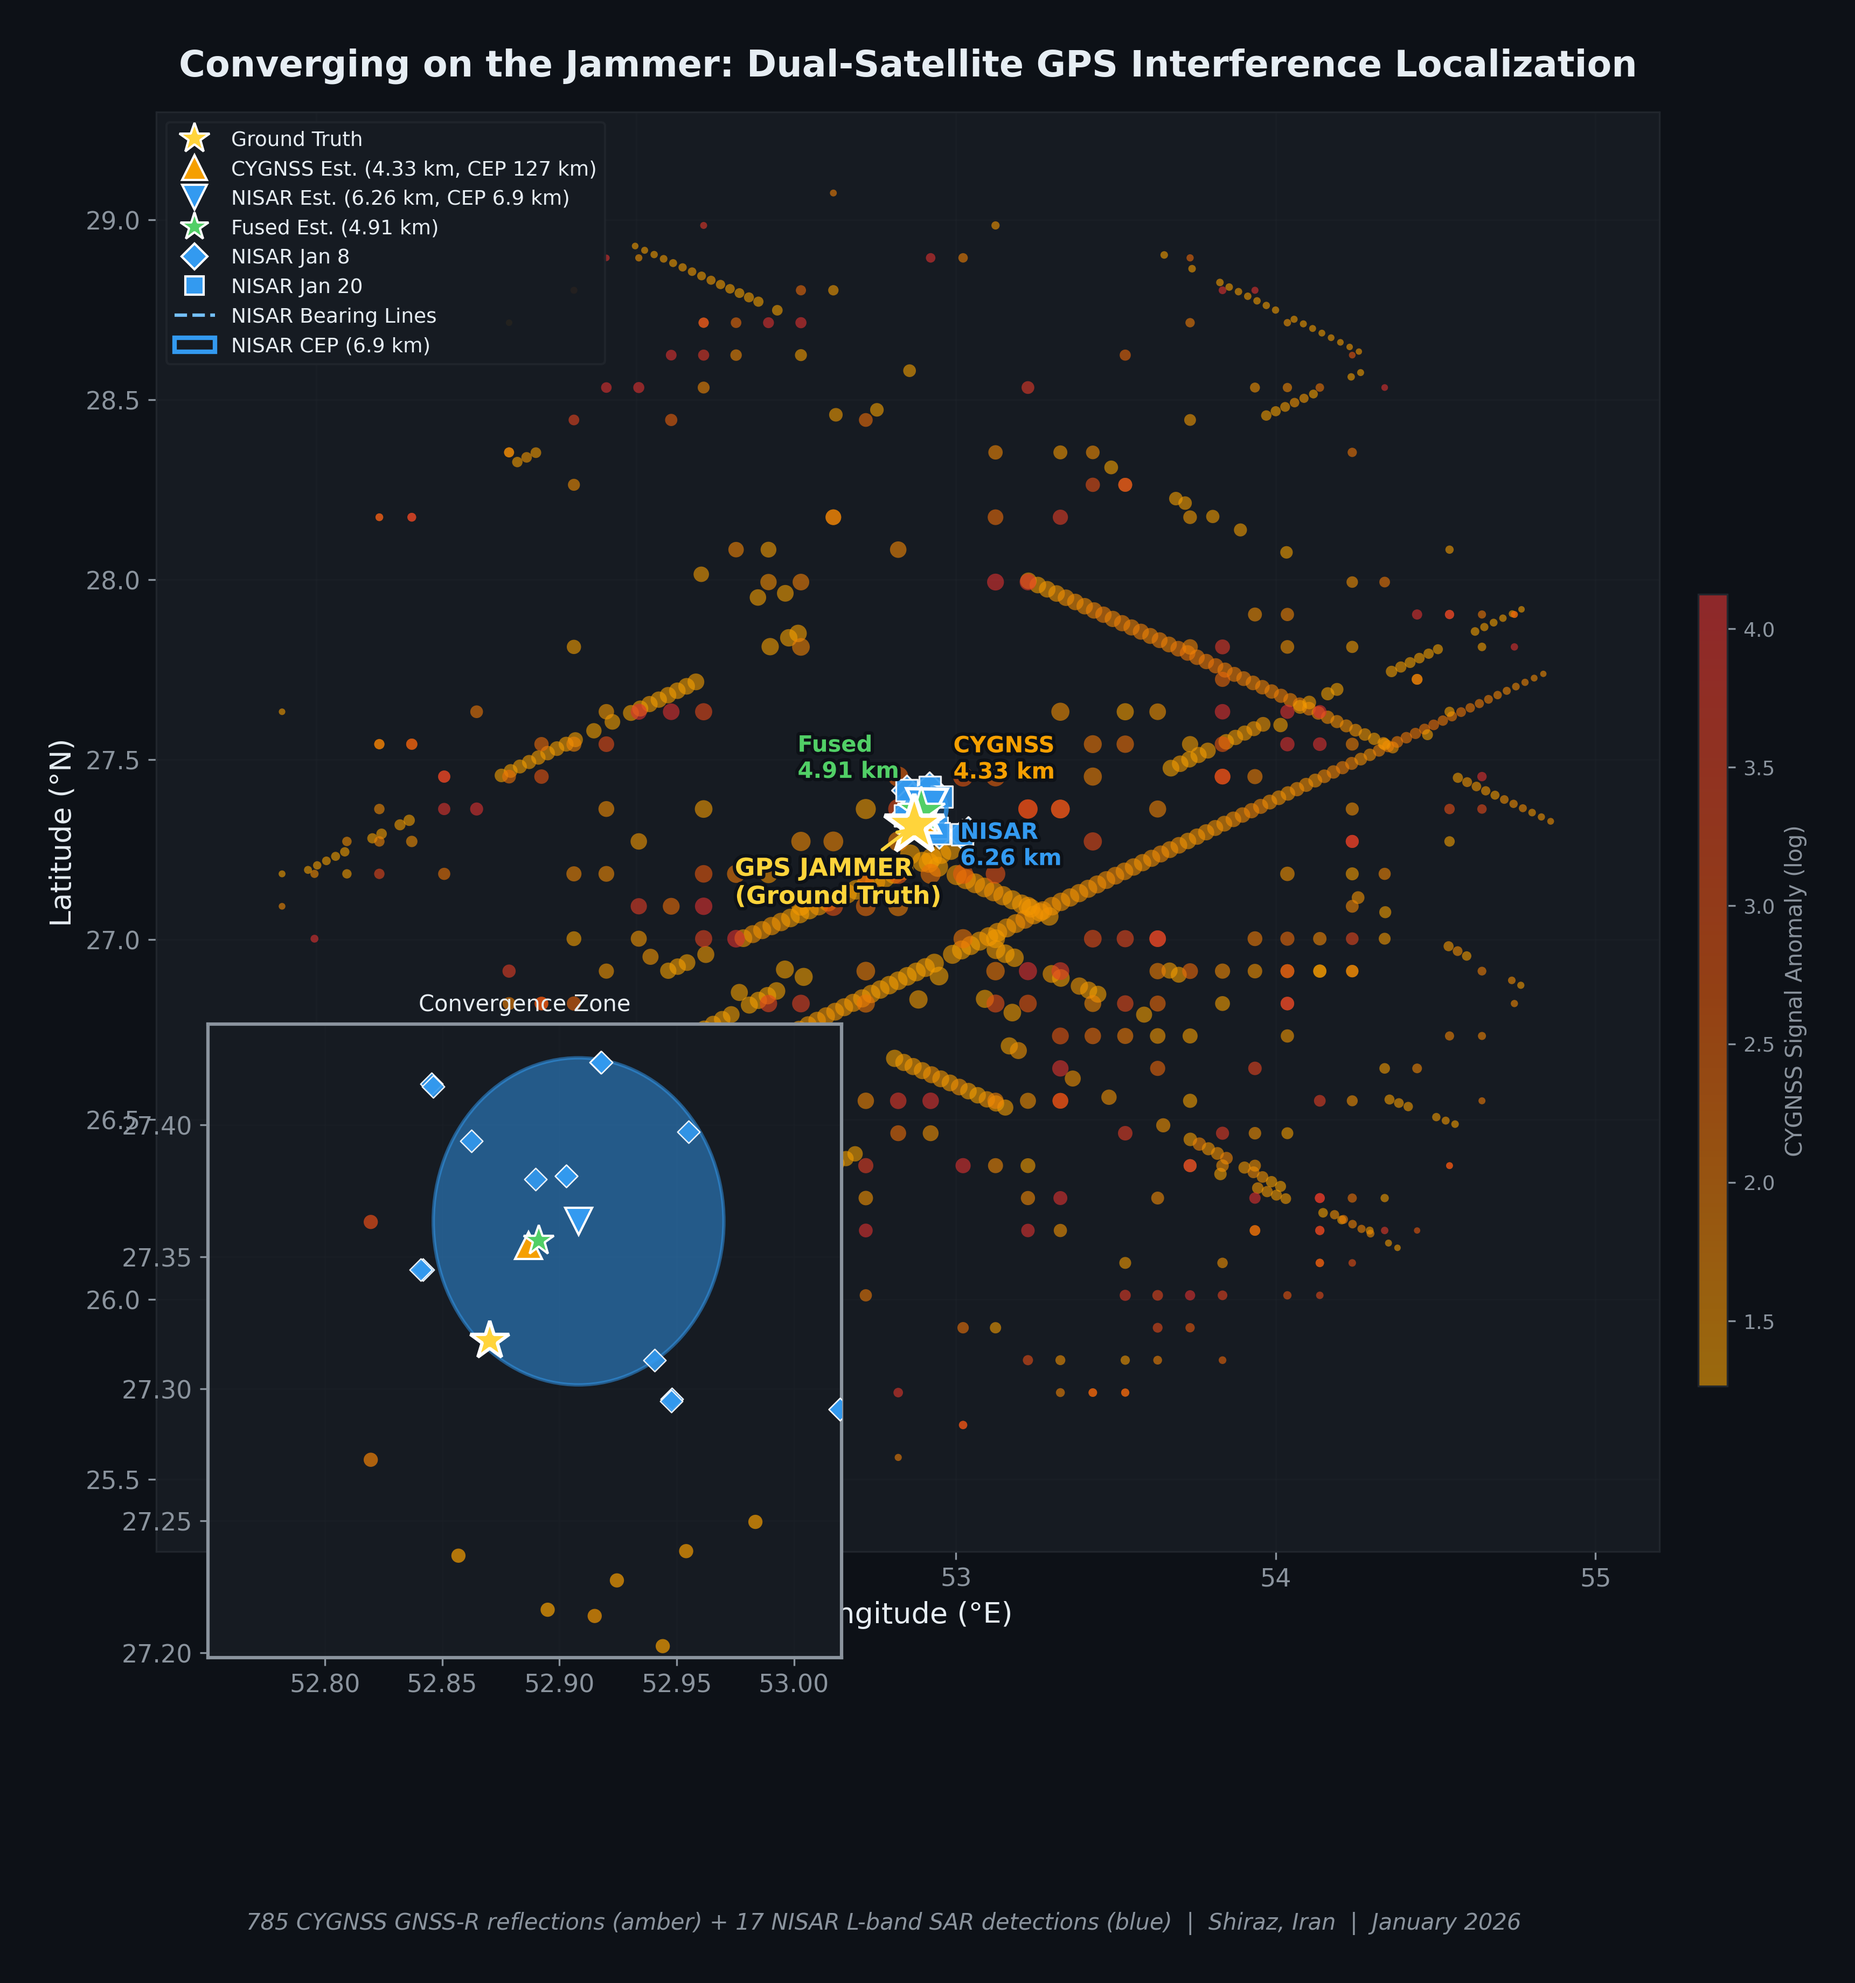
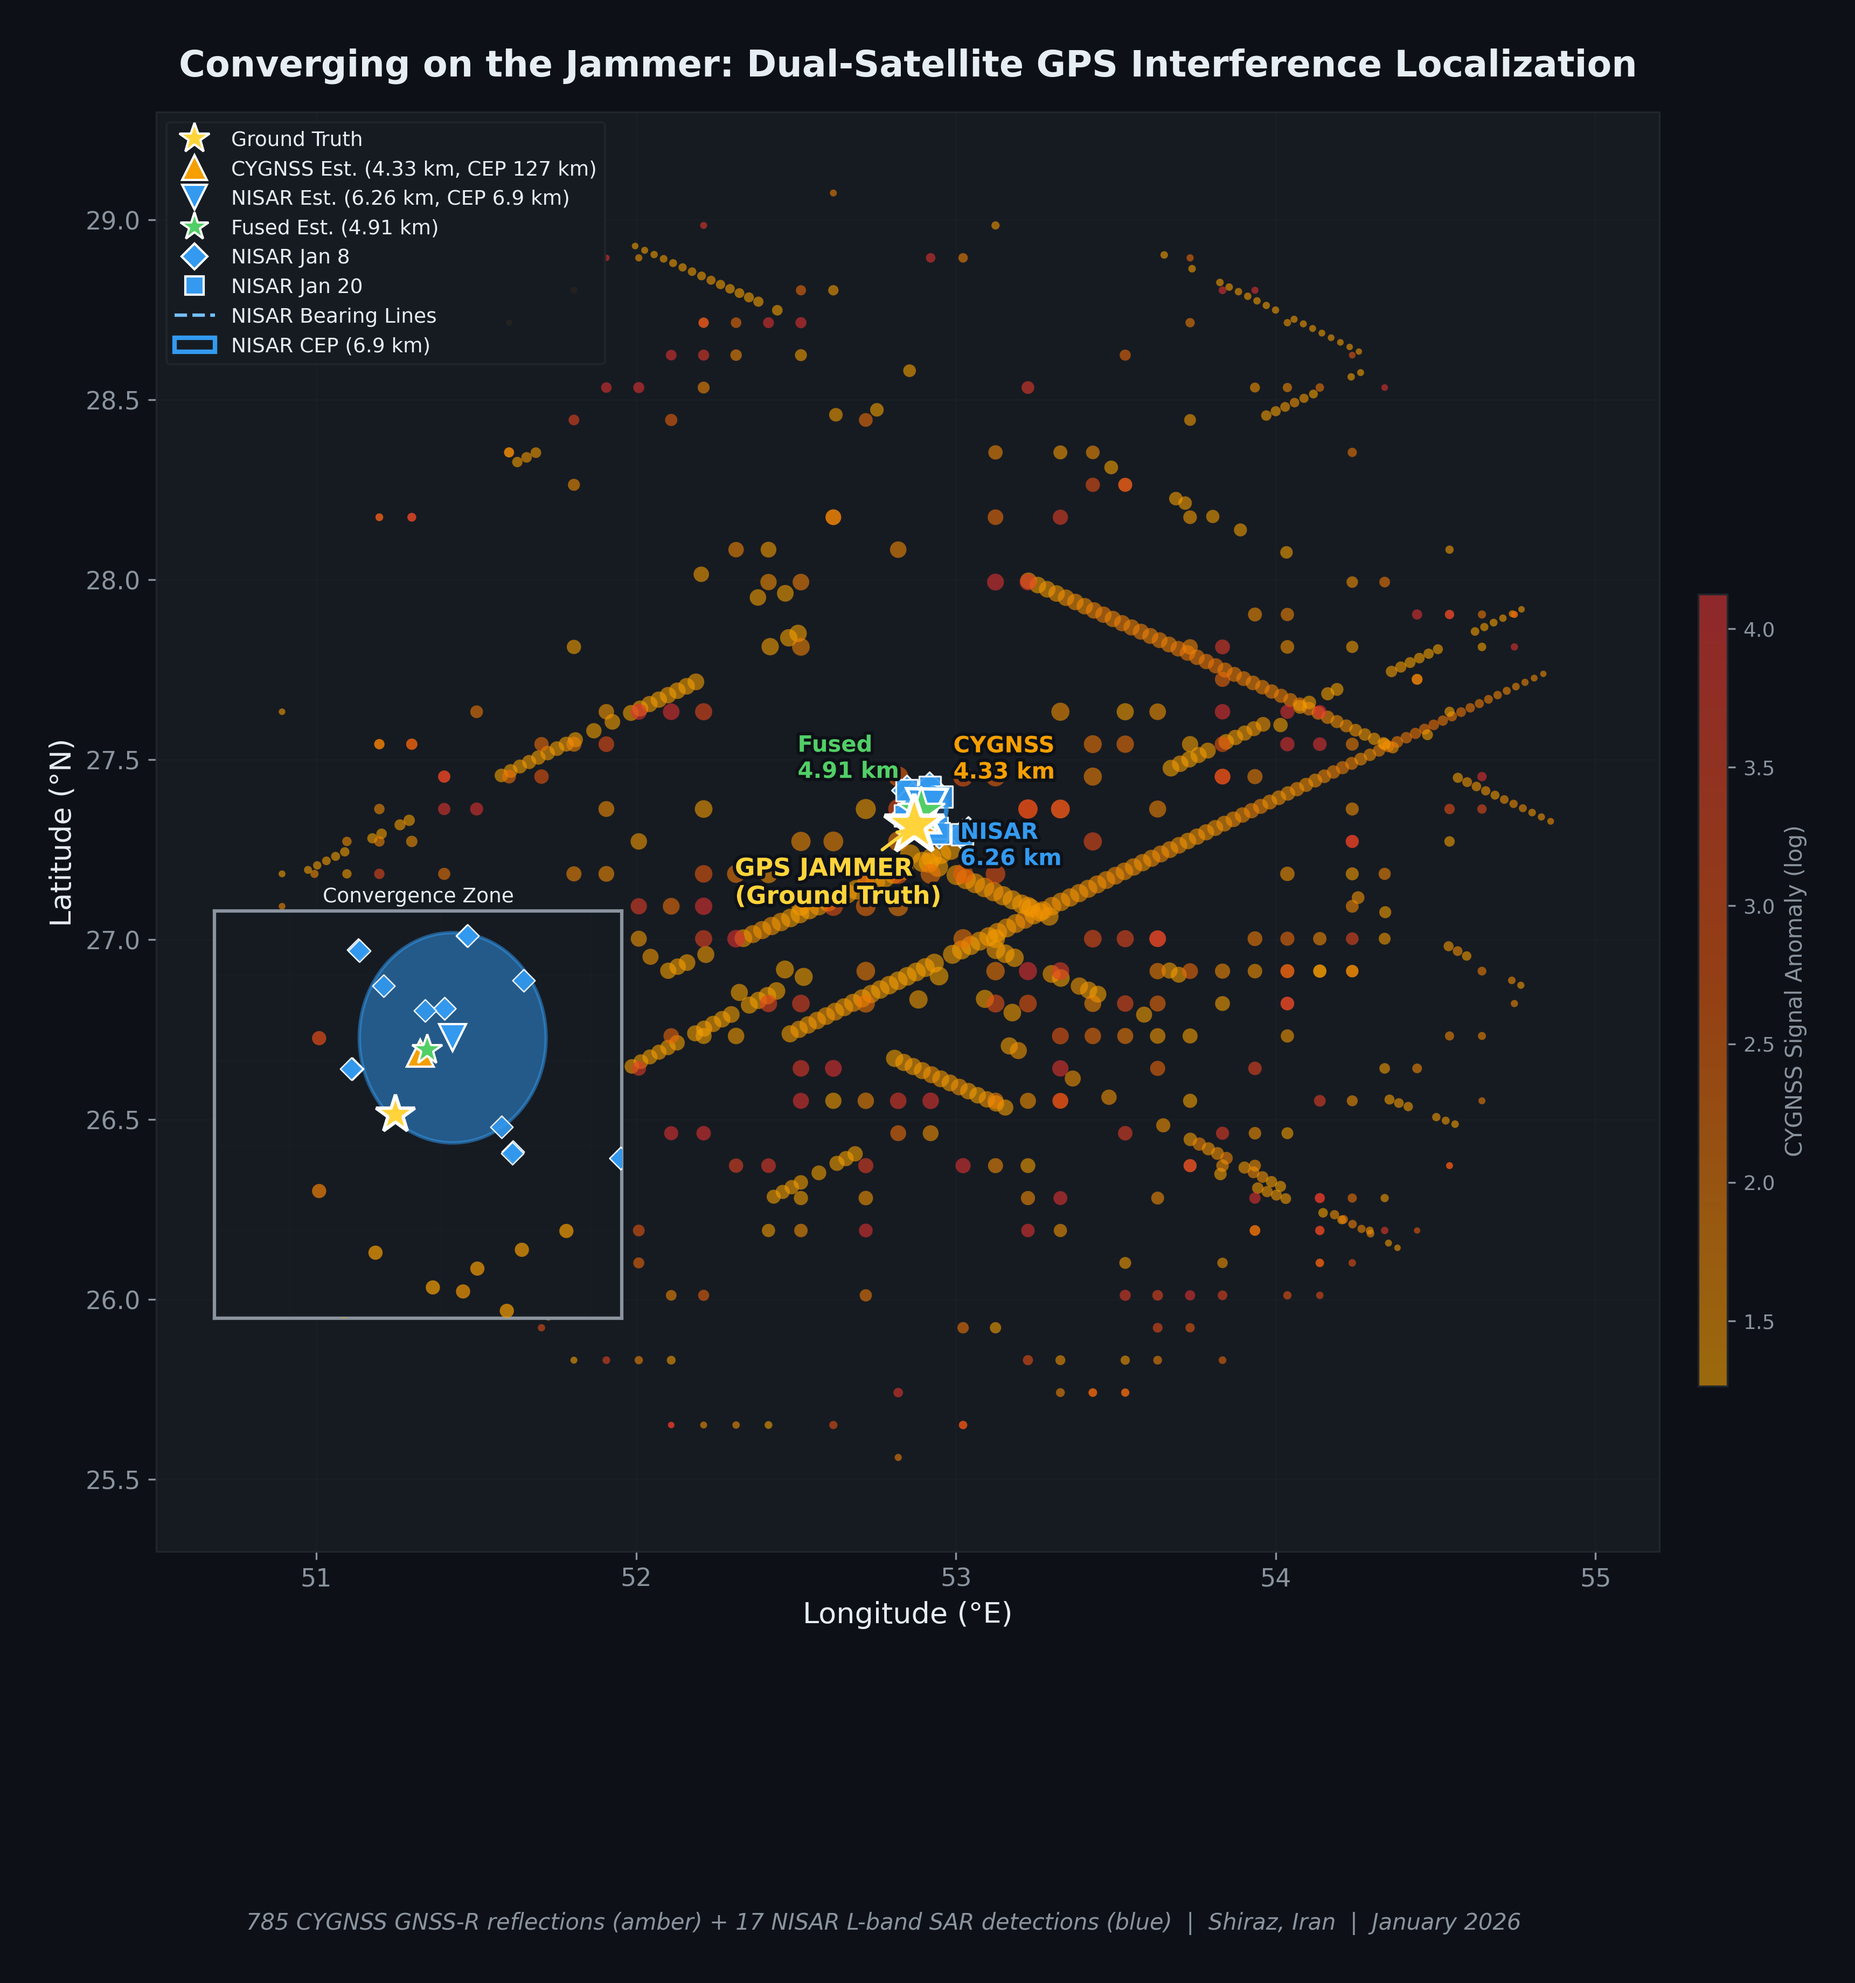
Shrink and reposition fig1 inset to avoid axis overlap
- Moved inset up and reduced size to clear X and Y axes
- Removed numeric tick labels from inset for cleaner look

diff --git a/article_figures.py b/article_figures.py
@@ -297,7 +297,7 @@ def figure1_hero(data):
     leg.get_frame().set_edgecolor(GRID_COLOR)
 
     # ── Inset: zoomed view of convergence zone ───────────────────────────
-    inset = fig.add_axes([0.14, 0.13, 0.35, 0.28])
+    inset = fig.add_axes([0.15, 0.28, 0.22, 0.18])
     inset.set_facecolor(BG_LIGHT)
 
     # Zoom to ~0.15° around ground truth
@@ -334,7 +334,10 @@ def figure1_hero(data):
 
     inset.set_aspect(1.0 / np.cos(np.radians(GT_LAT)))
     inset.grid(True, alpha=0.2, color=GRID_COLOR)
-    inset.set_title("Convergence Zone", fontsize=10, color=TEXT_COLOR, pad=6)
+    inset.set_title("Convergence Zone", fontsize=9, color=TEXT_COLOR, pad=4)
+    inset.set_xticklabels([])
+    inset.set_yticklabels([])
+    inset.tick_params(length=0)
     for spine in inset.spines.values():
         spine.set_edgecolor(TEXT_DIM)
         spine.set_linewidth(1.5)
